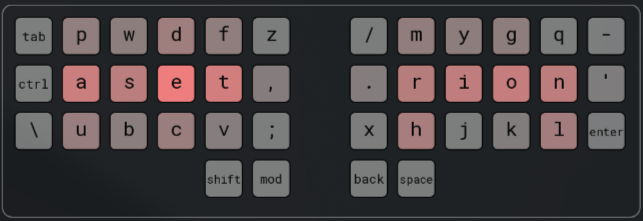
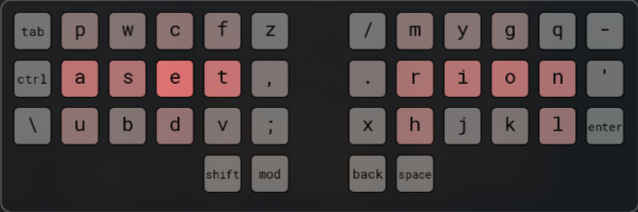
Inverting C and D to remove cw scissor - vim command change word

diff --git a/README.md b/README.md
@@ -24,13 +24,13 @@ Instead, Cadence aims to be a significant improvement over QWERTY for those who 
 
 To objectively measure the efficiency of this layout, it was analyzed and compared against QWERTY, Dvorak, Workman and Colemak-DH using a standard English text corpus.
 
-| Metric                   | QWERTY | Dvorak | Workman | Colemak-DH | Cadence v1.0.1 | Cadence v1.0.0 |
+| Metric                   | QWERTY | Dvorak | Workman | Colemak-DH | Cadence v1.0.1 | Cadence v1.1.0 |
 | ------------------------ | :----: | :----: | :-----: | :--------: | :------------: | :------------: |
 | **Home Row Usage**       | 32.30% | 67.85% | 65.65%  |   67.70%   |     65.20%     |   **65.20%**   |
 | **Same-Finger Bigrams**  | 4.39%  | 1.87%  |  1.97%  |   0.91%    |     4.50%      |   **3.35%**    |
 | **Skip Bigrams (2u)**    | 1.43%  | 0.45%  |  0.60%  |   0.41%    |     0.33%      |   **0.36%**    |
 | **Last Stretch Bigrams** | 4.55%  | 0.80%  |  1.11%  |   1.27%    |     0.35%      |   **0.33%**    |
-| **Scissors**             | 1.46%  | 0.08%  |  0.47%  |   0.15%    |     0.41%      |   **0.10%**    |
+| **Scissors**             | 1.46%  | 0.08%  |  0.47%  |   0.15%    |     0.41%      |   **0.09%**    |
 
 ![Heatmap](heatmap.jpg)
 
